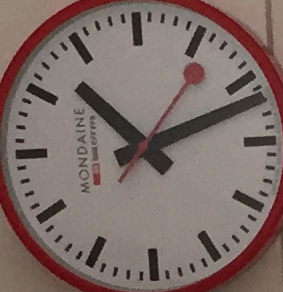
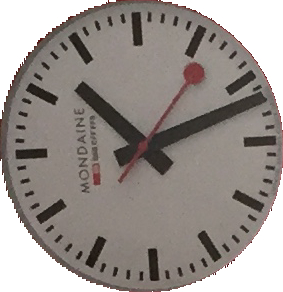
Refactor

diff --git a/segmenter.js b/segmenter.js
@@ -1,41 +1,26 @@
 const Jimp = require('jimp');
 const BFS = require('./BFS');
 const colors = require('./colors');
-const cropper = require('./cropper');
-
-const BACKGROUND = 'BACKGROUND';
-const BORDER = 'BORDER';
-// const AFTER = 'AFTER';
 
 
-exports.getClock = function (image, image_name) {
-  const border = getRedBorder(image, image_name);  // return binary image with only the red border
-  const innerClock = fillClock(image, border, image_name);   // return binary image with the inside of the clock (the clock without border)
-  return innerClock;
-};
-
-function getRedBorder(original, image_name) {
-  let image = original.clone();
+function getByColor(image, color, image_name) {
   console.log('---', `${image_name}: computing border...`);
-  const RED = [139, 29, 45];
-  let distance = getDistanceAllPixels(image, RED); // calculate the distance as space point from all pixels to a red color
+  let distance = getDistanceAllPixels(image, color); // calculate the distance as space point from all pixels to the given color
   distance = normalizeDistance(distance); // make all distances to be between 0 and 255
-  image = recolor(image, distance);  // what is considered red becames black, all the rest is white
+  image = recolor(image, distance);  // what is considered to be the color becames black, all the rest are white
   console.log('---', `${image_name}: border detected, cleaning it up`);
-  image = BFS.paintWhiteHoles(image); // small holes in between are painted black for a more solid clock
-  console.log('---', `${image_name}: cleaned. Removing unwanted segments...`);
-  image = BFS.removeSmallPieces(image, colors.BLACK);  // Remove all the black areas except the clock's border
-  console.log('---', `${image_name}: Ok. crop image...`);
-  const dimensions = cropper.cropSegment(image, colors.BLACK); // Crop image. only appear the clock
-  original.crop(dimensions[0], dimensions[1], dimensions[2], dimensions[3]);
-  image.crop(dimensions[0], dimensions[1], dimensions[2], dimensions[3]);
-
-  console.log('---', `${image_name}: Ok.`);
-
-  original.write(`./result/${image_name}/border.jpg`);  // on this path an image is saved showing the advance
-  console.log('---', `${image_name}: border saved`);
+  image = BFS.paintWhiteHoles(image); // small holes in between are painted black for a less noisy image
   return image;
 }
+
+exports.getLargestByColor = function (image, color, image_name) {
+  image = getByColor(image, color, image_name);
+  console.log('---', `${image_name}: cleaned. Removing unwanted segments...`);
+  image = BFS.removeSmallPieces(image, colors.BLACK);  // Remove all the black areas except the largest one border
+  console.log('---', `${image_name}: Ok.`);
+
+  return image;
+};
 
 
 function recolor(image, distance) {
@@ -73,117 +58,6 @@ function getDistanceAllPixels(image, ref) {
     }
   }
   return distance;
-}
-
-function inBackground(color, line, i, j) {
-  if (color === colors.BLACK) { // if its in the background and finds a black one, it has entered a border area
-    line.status = BORDER;
-    const p = {};
-    p.start = j;
-    p.finish = j;
-    line.points.push(p);
-  }
-}
-
-function inBorder(color, line, i, j) {
-  if (color === colors.BLACK) { // if its in the border and finds a black one, update the finish point of that border
-    const p = getLastPoint(line);
-    p.finish = j;
-  } else { // if its in the border and finds a white one, it has entered a background area
-    line.status = BACKGROUND;
-  }
-}
-
-function getLastPoint(line) {
-  if (line.points.length === 0) {
-    line.points.push({});
-  }
-  return line.points[line.points.length - 1];
-}
-
-function getInnerBorders(line, HEIGHT) {
-  if (line.points.length === 2) { // This is the most common case. Where we have no noise whithin the border
-    return {
-      start: line.points[0].finish,
-      finish: line.points[1].start,
-    };
-  } else if (line.points.length < 2) {  // Edge case, on the line the ir only one border. Furthermost right and left part.
-    return {
-      start: HEIGHT,
-      finish: HEIGHT,
-    };
-  }
-  return longestBackgroudLine(line);
-}
-
-function longestBackgroudLine(line) {
-  const distances = [];
-  for (let i = 0; i < line.points.length - 1; i++) {
-    const p = {
-      start: line.points[i].finish,
-      finish: line.points[i + 1].start,
-    };
-    p.distance = p.finish - p.start;
-    distances.push(p);
-  }
-  distances.sort((a, b) => {
-    return b.distance - a.distance;
-  });
-  return distances[0];
-}
-/* In this algorithm there are two diferent types of area: BACKGROUND, where its white, and BORDER, where it is black*/
-function paintLines(image) {
-  const WIDTH = image.bitmap.width;
-  const HEIGHT = image.bitmap.height;
-  for (let i = 0; i < WIDTH; i++) {
-    const line = {
-      status: BACKGROUND,    // status is binary, its in the backgroud (WHITE AREA) or in the border (BLACK AREA)
-      points: [],           // points will register all the starting and finish pixels of a border.
-    };
-    for (let j = 0; j < HEIGHT; j++) {
-      const color = image.getPixelColor(i, j);
-      if (line.status === BACKGROUND) {
-        inBackground(color, line, i, j);
-      } else {
-        inBorder(color, line, i, j);
-      }
-    }
-    const borders = getInnerBorders(line, HEIGHT); // Get the border of the inner clock. This is without the red border.
-    image = repaintLine(image, i, borders, HEIGHT); // paints the inner part of the clock only
-  }
-  return image;
-}
-
-function repaintLine(image, i, borders, HEIGHT) {
-  if (borders) {
-    for (let k = 0; k < borders.start; k++) {
-      image.setPixelColor(colors.WHITE, i, k);
-    }
-    for (let k = borders.start; k < borders.finish; k++) {
-      image.setPixelColor(colors.BLACK, i, k);
-    }
-    for (let k = borders.finish; k < HEIGHT; k++) {
-      image.setPixelColor(colors.WHITE, i, k);
-    }
-  }
-  return image;
-}
-
-
-function fillClock(original, image, image_name) {
-  console.log('------', `${image_name}: getting innerClock...`);
-  image = paintLines(image); // It goes for every line (horizontal) and paint the inner part of the clock
-  console.log('------', `${image_name}: innerClock segmented. Removing unwanted noise...`);
-  image = BFS.removeSmallPieces(image, colors.BLACK);  // Remove noise
-  console.log('------', `${image_name}: noise removed. Cropping image...`);
-  const dim = cropper.cropSegment(image, colors.BLACK); // Crop image
-  original.crop(dim[0], dim[1], dim[2], dim[3]);
-  image.crop(dim[0], dim[1], dim[2], dim[3]);
-
-  console.log('------', `${image_name}: imaged Cropped.`);
-  original.write(`./result/${image_name}/innerClock.jpg`);
-  console.log('------', `${image_name}: innerClock saved.`);
-  return image;
 }
 
 

diff --git a/clock.js b/clock.js
@@ -1,0 +1,149 @@
+
+const segmenter = require('./segmenter');
+const cropper = require('./cropper');
+const colors = require('./colors');
+const BFS = require('./BFS');
+
+const BACKGROUND = 'BACKGROUND';
+const BORDER = 'BORDER';
+
+exports.get = function (image, image_name) {
+  const border = getRedBorder(image, image_name);  // return binary image with only the red border
+  const innerClock = fillClock(image, border, image_name);   // return binary image with the inside of the clock (the clock without border)
+  return innerClock;
+};
+
+
+function getRedBorder(original, image_name) {
+  let image = original.clone();
+  const RED = [139, 29, 45];
+  image = segmenter.getLargestByColor(image, RED, image_name); // get binary image with BLACK whenever the is RED and the rest is white
+
+  console.log('---', `${image_name}: Crop image...`);
+  const dimensions = cropper.cropSegment(image, colors.BLACK); // Crop image. only appear the clock
+  original.crop(dimensions[0], dimensions[1], dimensions[2], dimensions[3]);
+  image.crop(dimensions[0], dimensions[1], dimensions[2], dimensions[3]);
+  console.log('---', `${image_name}: Ok.`);
+
+  original.write(`./result/${image_name}/border.jpg`);  // on this path an image is saved showing the advance
+  console.log('---', `${image_name}: border saved`);
+  return image;
+}
+
+
+function fillClock(original, image, image_name) {
+  console.log('------', `${image_name}: getting innerClock...`);
+  image = paintLines(image); // It goes for every line (horizontal) and paint the inner part of the clock
+
+  console.log('------', `${image_name}: innerClock segmented. Removing unwanted noise...`);
+  image = BFS.removeSmallPieces(image, colors.BLACK);  // Remove noise
+
+  console.log('------', `${image_name}: noise removed. Cropping image...`);
+  const dim = cropper.cropSegment(image, colors.BLACK); // Crop image
+  original.crop(dim[0], dim[1], dim[2], dim[3]);
+  image.crop(dim[0], dim[1], dim[2], dim[3]);
+  console.log('------', `${image_name}: imaged Cropped.`);
+
+  console.log('------', `${image_name}: Removing background...`);
+  original = cropper.removeBackgroud(original, image); // Set to white the unwanted background
+  console.log('------', `${image_name}: Ok.`);
+
+  original.write(`./result/${image_name}/innerClock.jpg`);
+  console.log('------', `${image_name}: innerClock saved.`);
+  return image;
+}
+
+/* In this algorithm there are two diferent types of area: BACKGROUND, where its white, and BORDER, where it is black*/
+function paintLines(image) {
+  const WIDTH = image.bitmap.width;
+  const HEIGHT = image.bitmap.height;
+  for (let i = 0; i < WIDTH; i++) {
+    const line = {
+      status: BACKGROUND,    // status is binary, its in the backgroud (WHITE AREA) or in the border (BLACK AREA)
+      points: [],           // points will register all the starting and finish pixels of a border.
+    };
+    for (let j = 0; j < HEIGHT; j++) {
+      const color = image.getPixelColor(i, j);
+      if (line.status === BACKGROUND) {
+        inBackground(color, line, i, j);
+      } else {
+        inBorder(color, line, i, j);
+      }
+    }
+    const borders = getInnerBorders(line, HEIGHT); // Get the border of the inner clock. This is without the red border.
+    image = repaintLine(image, i, borders, HEIGHT); // paints the inner part of the clock only
+  }
+  return image;
+}
+
+function inBackground(color, line, i, j) {
+  if (color === colors.BLACK) { // if its in the background and finds a black one, it has entered a border area
+    line.status = BORDER;
+    const p = {};
+    p.start = j;
+    p.finish = j;
+    line.points.push(p);
+  }
+}
+
+function inBorder(color, line, i, j) {
+  if (color === colors.BLACK) { // if its in the border and finds a black one, update the finish point of that border
+    const p = getLastPoint(line);
+    p.finish = j;
+  } else { // if its in the border and finds a white one, it has entered a background area
+    line.status = BACKGROUND;
+  }
+}
+
+function getLastPoint(line) {
+  if (line.points.length === 0) {
+    line.points.push({});
+  }
+  return line.points[line.points.length - 1];
+}
+
+function getInnerBorders(line, HEIGHT) {
+  if (line.points.length === 2) { // This is the most common case. Where we have no noise whithin the border
+    return {
+      start: line.points[0].finish,
+      finish: line.points[1].start,
+    };
+  } else if (line.points.length < 2) {  // Edge case, on the line the ir only one border. Furthermost right and left part.
+    return {
+      start: HEIGHT,
+      finish: HEIGHT,
+    };
+  }
+  return longestBackgroudLine(line);
+}
+
+function repaintLine(image, i, borders, HEIGHT) {
+  if (borders) {
+    for (let k = 0; k < borders.start; k++) {
+      image.setPixelColor(colors.WHITE, i, k);
+    }
+    for (let k = borders.start; k < borders.finish; k++) {
+      image.setPixelColor(colors.BLACK, i, k);
+    }
+    for (let k = borders.finish; k < HEIGHT; k++) {
+      image.setPixelColor(colors.WHITE, i, k);
+    }
+  }
+  return image;
+}
+
+function longestBackgroudLine(line) {
+  const distances = [];
+  for (let i = 0; i < line.points.length - 1; i++) {
+    const p = {
+      start: line.points[i].finish,
+      finish: line.points[i + 1].start,
+    };
+    p.distance = p.finish - p.start;
+    distances.push(p);
+  }
+  distances.sort((a, b) => {
+    return b.distance - a.distance;
+  });
+  return distances[0];
+}

diff --git a/processor.js b/processor.js
@@ -1,20 +1,22 @@
-const segmenter = require('./segmenter');
+const Clock = require('./clock');
 const Jimp = require('jimp');
 
-exports.getHour = function(path, image_name) {
-  return new Promise(function(resolve, reject) {
+exports.getHour = function (path, image_name) {
+  return new Promise((resolve, reject) => {
     openImage(path).then((image) => {
-      const clock = segmenter.getClock(image, image_name);
+      // const clock = segmenter.getClock(image, image_name);
+      const clock = Clock.get(image, image_name);
       resolve(clock);
     }).catch((err) => {
       console.log(err);
+      reject(err);
     });
   });
 };
 
 
 function openImage(path) {
-  return new Promise((resolve, reject) => {
+  return new Promise((resolve) => {
     resolve(Jimp.read(path));
   });
 }

diff --git a/cropper.js b/cropper.js
@@ -1,4 +1,5 @@
 // const Jimp = require('jimp');
+const colors = require('./colors');
 
 
 // crop the area so that surrounds all the pixels with the segment_color
@@ -86,3 +87,18 @@ function getMaxY(image, segment_color) {
   }
   return y;
 }
+
+
+exports.removeBackgroud = function (target, binary) {
+  const WIDTH = binary.bitmap.width;
+  const HEIGHT = binary.bitmap.height;
+  for (let i = 0; i < WIDTH; i++) {
+    for (let j = 0; j < HEIGHT; j++) {
+      const color = binary.getPixelColor(i, j);
+      if (color === colors.WHITE) {
+        target.setPixelColor(colors.WHITE, i, j);
+      }
+    }
+  }
+  return target;
+};

diff --git a/files.js b/files.js
@@ -1,4 +1,4 @@
 exports.PATH = '../images/';
 
-exports.IMAGES = ['IMG_6170.JPG', 'IMG_6194.JPG', 'IMG_6195.JPG', 'IMG_6196.JPG', 'IMG_6198.JPG'];
-// exports.IMAGES = ['IMG_6196.JPG'];
+// exports.IMAGES = ['IMG_6170.JPG', 'IMG_6194.JPG', 'IMG_6195.JPG', 'IMG_6196.JPG', 'IMG_6198.JPG'];
+exports.IMAGES = ['IMG_6196.JPG'];
